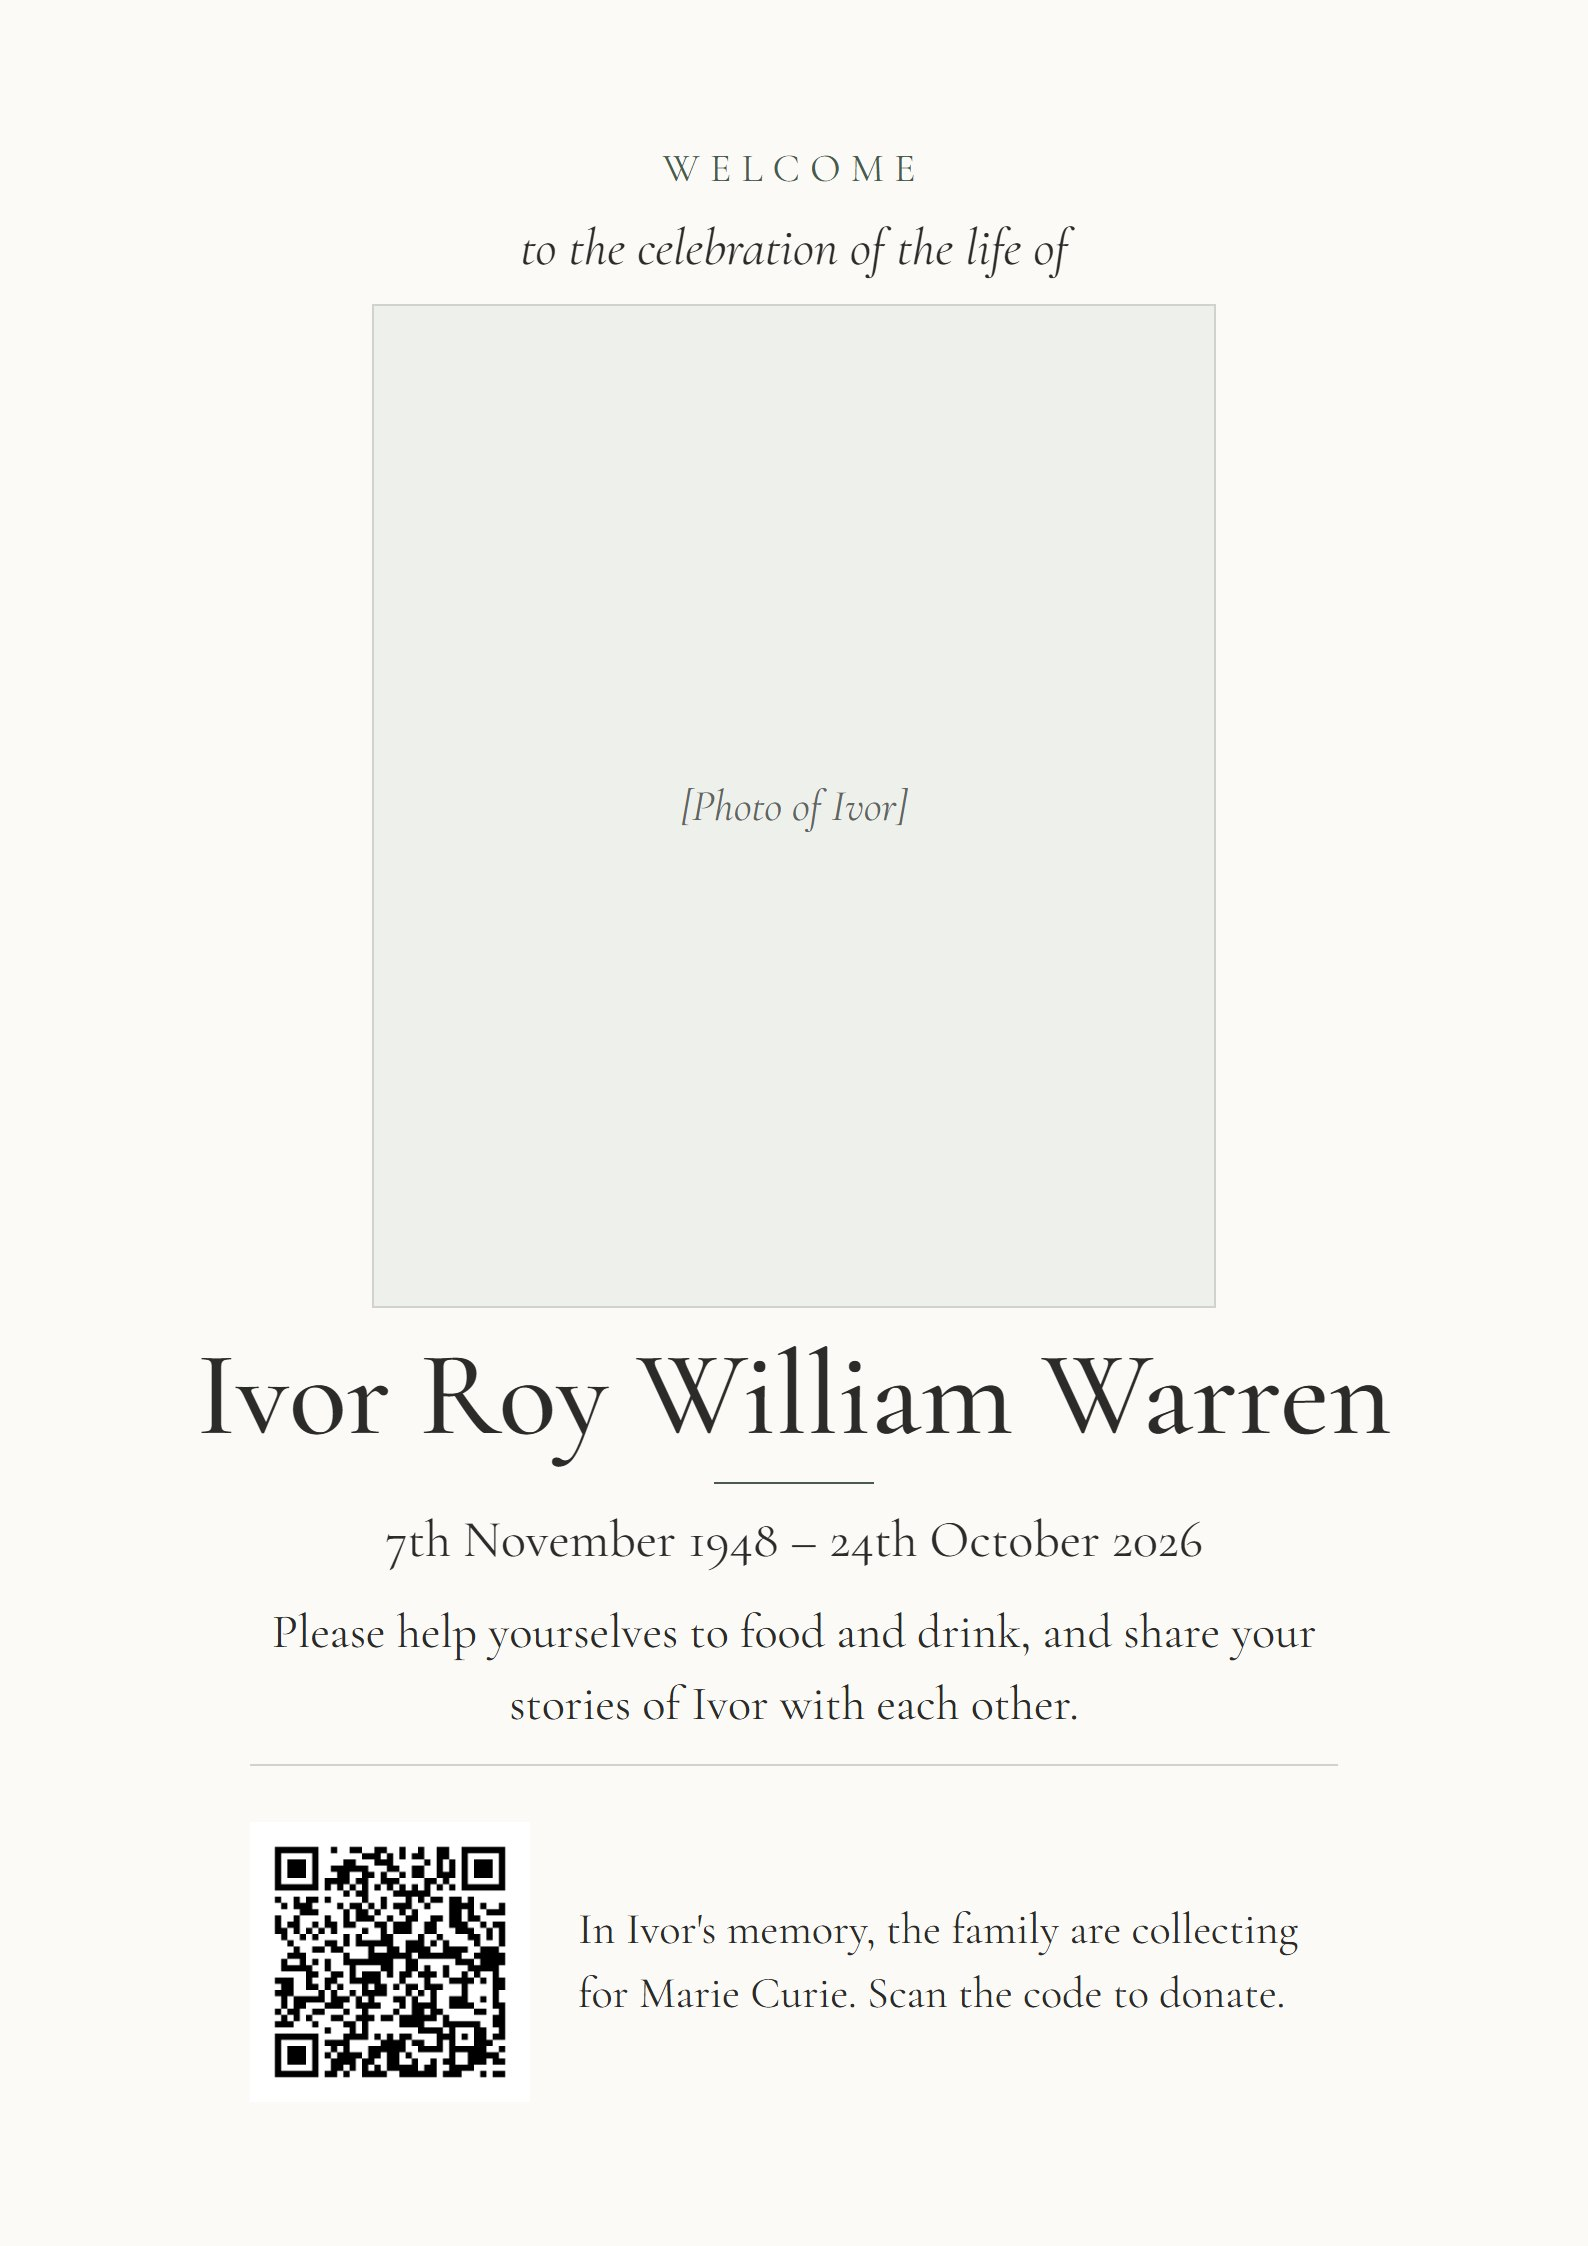
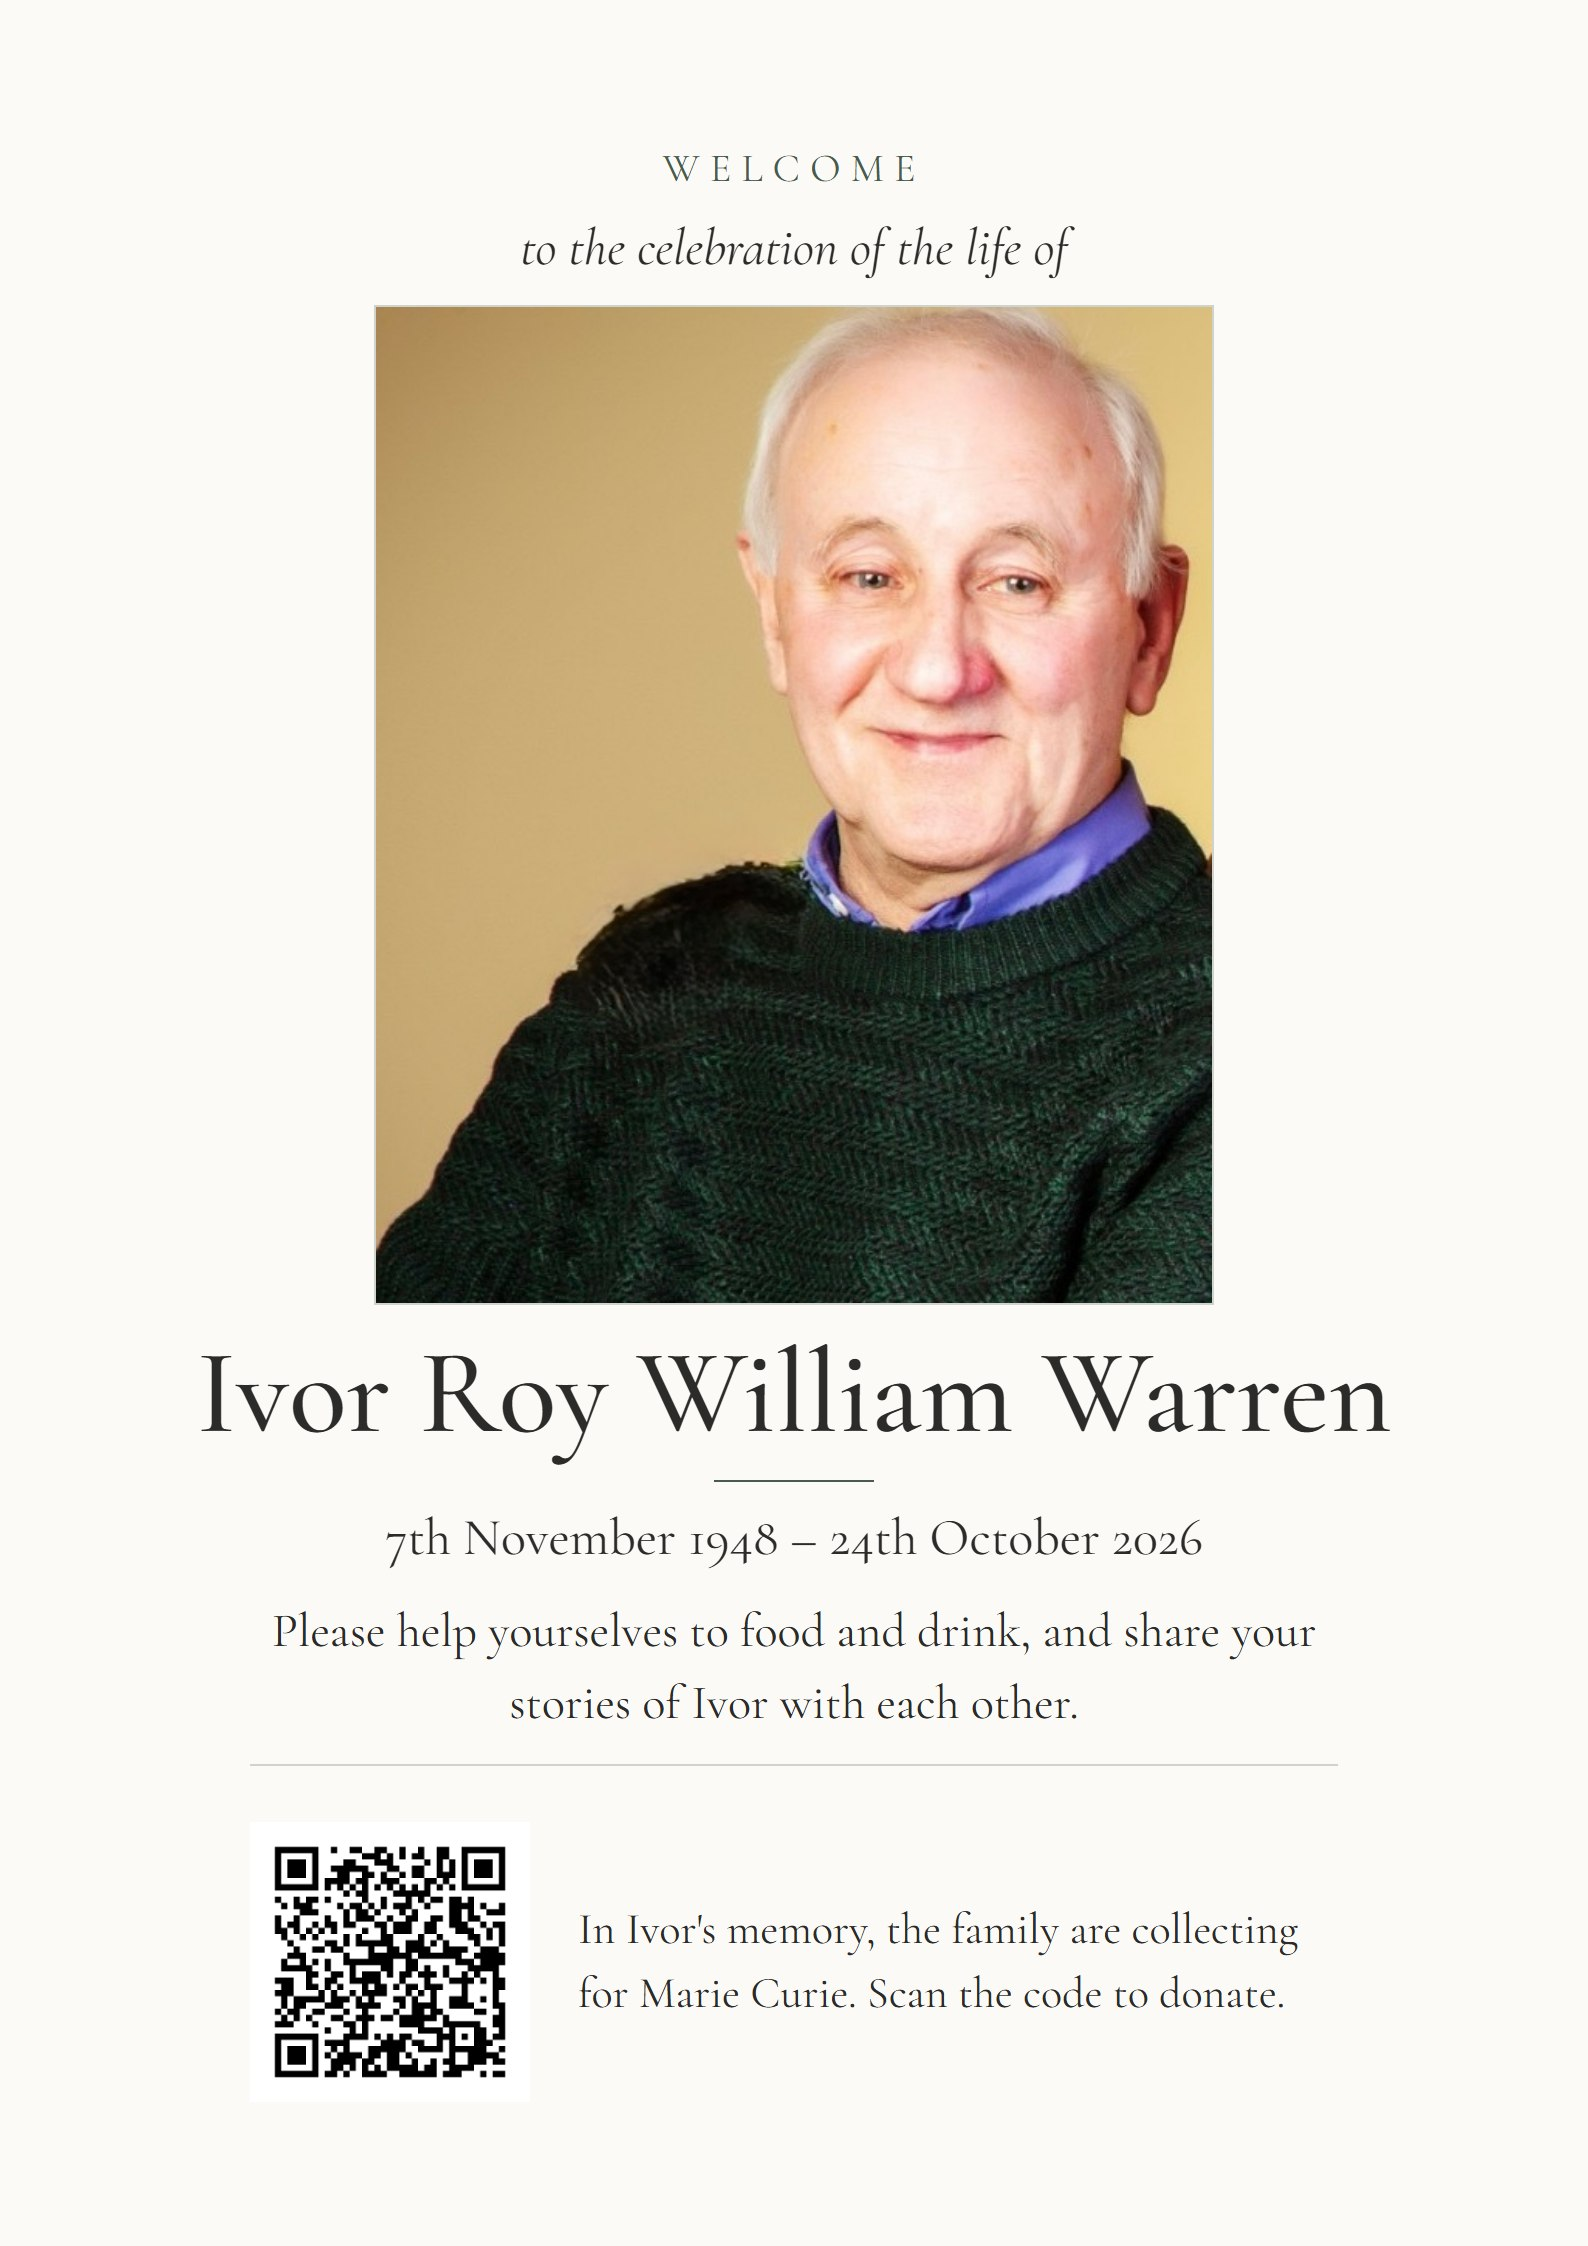
Wake welcome board photo

Changed region(s): [[0.216, 0.1247, 0.7714, 0.6545], [0.4628, 0.6545, 0.4937, 0.6857], [0.3394, 0.6233, 0.3703, 0.6545]]

diff --git a/index.html b/index.html
@@ -336,7 +336,7 @@ const DRAFTS=[
  ["Order of service","p8","Page 12 · Back cover","drafts/Ivor-8-back-cover.jpg?v=2"],
  ["Invitations and cards","inv","Funeral invitation","drafts/Ivor-funeral-invitation.jpg?v=2"],
  ["Invitations and cards","wakeinv","Wake invitation","drafts/Ivor-wake-invitation.jpg"],
- ["Invitations and cards","board","Wake welcome board","drafts/Ivor-wake-welcome-board.jpg?v=2"],
+ ["Invitations and cards","board","Wake welcome board","drafts/Ivor-wake-welcome-board.jpg?v=3"],
  ["Invitations and cards","tyf","Thank-you card · front","drafts/Ivor-thank-you-card-front.jpg"],
  ["Invitations and cards","tyi","Thank-you card · inside","drafts/Ivor-thank-you-card-inside.jpg"],
 ];
